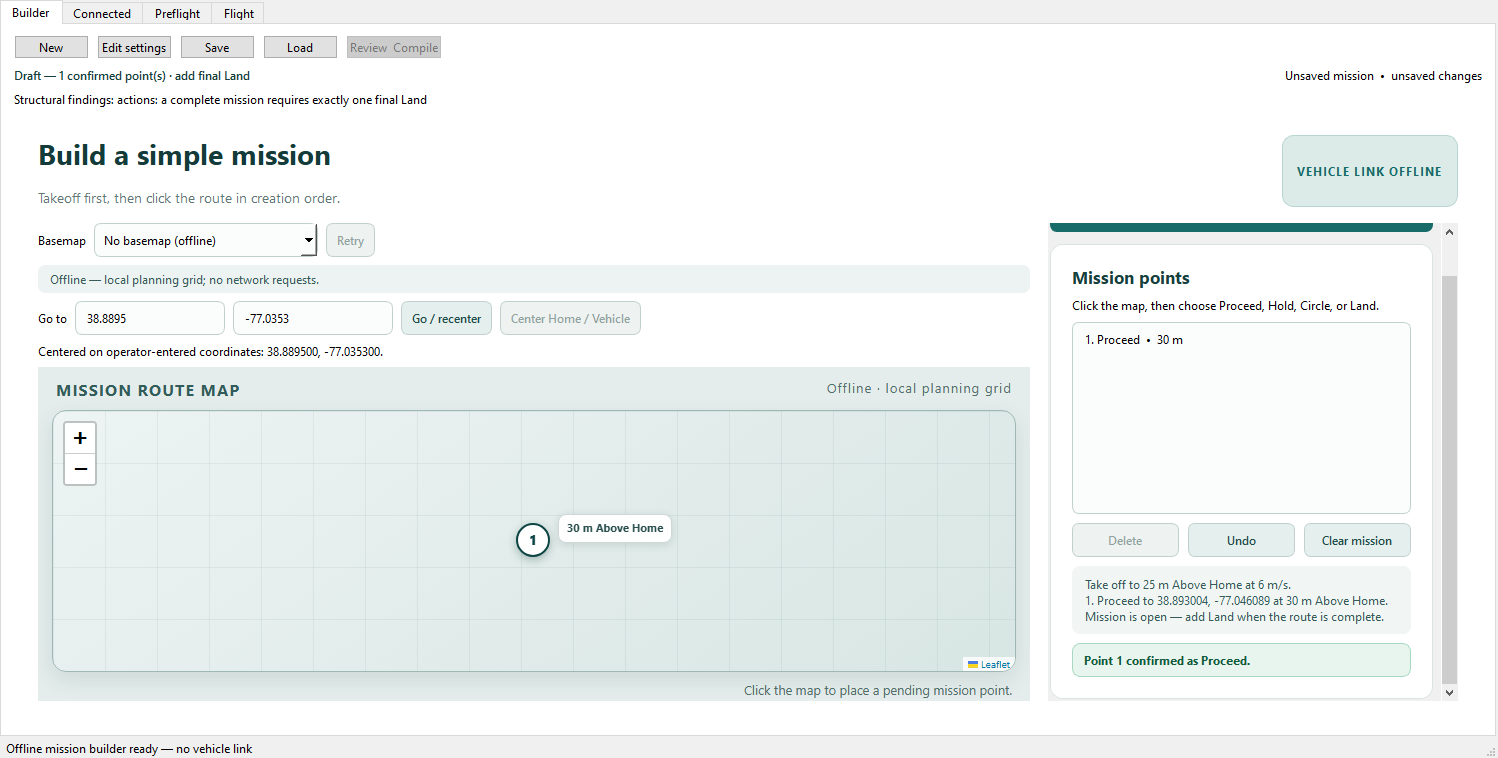
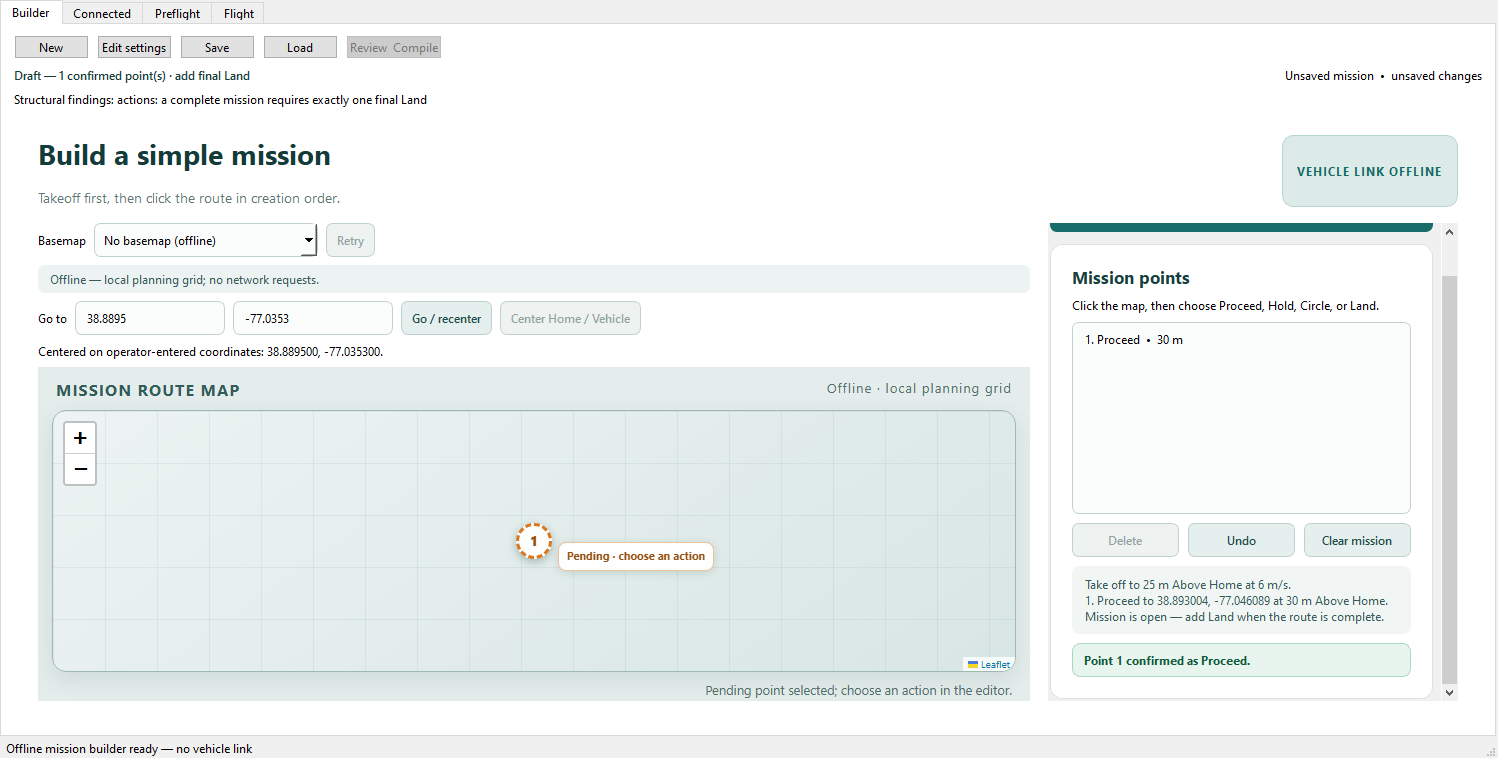
Harden packaged Windows acceptance

Changed region(s): [[0.3378, 0.6675, 0.4913, 0.7586], [0.4913, 0.8799, 0.6756, 0.9406]]

diff --git a/src/skywriter/main.py b/src/skywriter/main.py
@@ -94,6 +94,7 @@ def run(
 
     if packaged_smoke:
         completed = False
+        visual_capture_attempts = 0
 
         def common_evidence(readiness: MapReady | None) -> dict[str, object]:
             provider = map_host.provider_status
@@ -139,6 +140,8 @@ def run(
             app.exit(0)
 
         def capture_visual_surface() -> None:
+            nonlocal visual_capture_attempts
+            visual_capture_attempts += 1
             script = """
                 JSON.stringify((() => {
                   const control = document.querySelector('.leaflet-control-zoom');
@@ -159,7 +162,6 @@ def run(
                 nonlocal completed
                 if completed:
                     return
-                completed = True
                 try:
                     parsed_dom = json.loads(value) if isinstance(value, str) else {}
                 except json.JSONDecodeError:
@@ -174,12 +176,17 @@ def run(
                     screenshot_saved = pixmap.save(str(screenshot_path), "PNG")
                 surface = inspect_map_surface(pixmap.toImage(), dom)
                 ready = surface.visual_ready and screenshot_saved
+                if not ready:
+                    QTimer.singleShot(250, capture_visual_surface)
+                    return
+                completed = True
                 _write_packaged_smoke_evidence(
                     {
                         **common_evidence(map_host.readiness),
                         **surface.as_dict(),
                         "ready": ready,
                         "capture_method": "QWebEngineView.grab",
+                        "capture_attempts": visual_capture_attempts,
                         "loaded_tile_elements": dom.get("loaded_tile_elements", 0),
                         "screenshot_saved": screenshot_saved,
                     }

diff --git a/src/skywriter/ui/installed_acceptance.py b/src/skywriter/ui/installed_acceptance.py
@@ -151,7 +151,7 @@ class _InstalledAcceptance:
         center = self.map_host.rect().center() + offset
         self._assert(self.map_host.rect().contains(center), "map click lies in rendered map")
         global_center = self.map_host.mapToGlobal(center)
-        target = QApplication.widgetAt(global_center)
+        target = self.map_host.childAt(center) or QApplication.widgetAt(global_center)
         if target is None:
             # Windows WebEngine can expose its native Chromium child outside Qt's
             # QWidget hit-test tree. Use the desktop input path at the exact rendered

diff --git a/README.md b/README.md
@@ -247,9 +247,9 @@ remain visibly disabled in this unbound shell and acceptance records zero vehicl
 attempts. See the complete
 [`installed-control triage`](docs/task-109-control-triage.md).
 
-The verified Task 109 artifact is `SKYWriter-Prototype-Setup-0.1.3.exe`, 152,286,232
+The verified Task 109 artifact is `SKYWriter-Prototype-Setup-0.1.3.exe`, 152,301,811
 bytes, SHA-256
[2 lines of base64/hex data omitted]
 so SmartScreen/reputation warnings remain expected.
 
 Builds are unsigned unless explicit signing secrets are configured and may trigger

diff --git a/codex-tasks/109-installed-ui-triage.md b/codex-tasks/109-installed-ui-triage.md
@@ -61,8 +61,8 @@ baseline was 149,194,983 bytes with SHA-256
 ## Windows installer evidence
 
 - Installer: `SKYWriter-Prototype-Setup-0.1.3.exe`
-- Size: 152,286,232 bytes
[1 lines of base64/hex data omitted]
+- Size: 152,301,811 bytes
[1 lines of base64/hex data omitted]
 - Authenticode: unsigned (`signed: false`); SmartScreen warnings remain expected
 - Runtime: CPython 3.12.10, PyInstaller 6.22.2, Inno Setup 6.7.3
 
